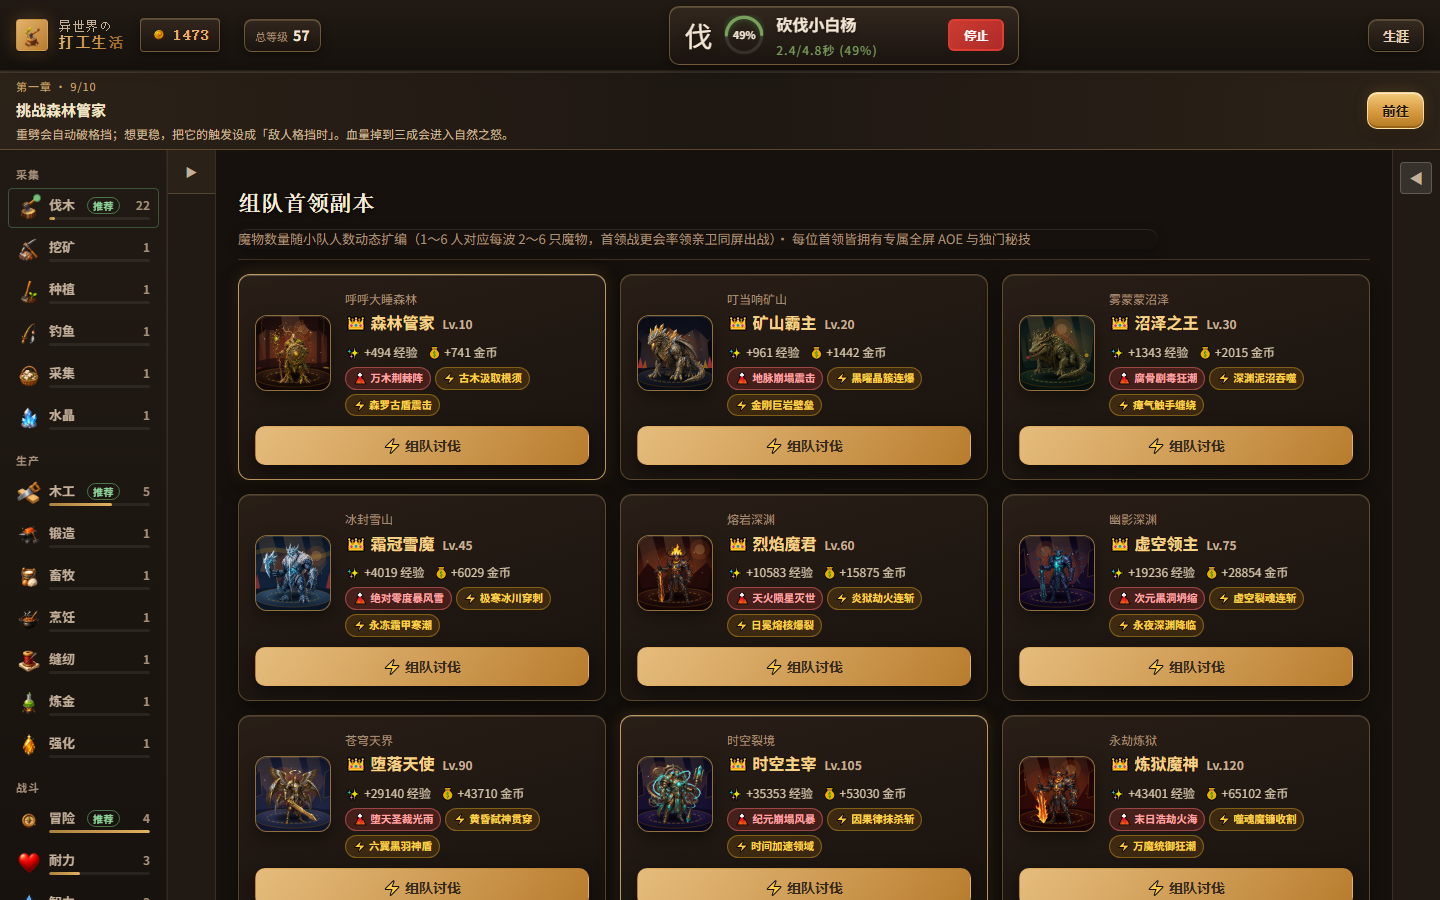
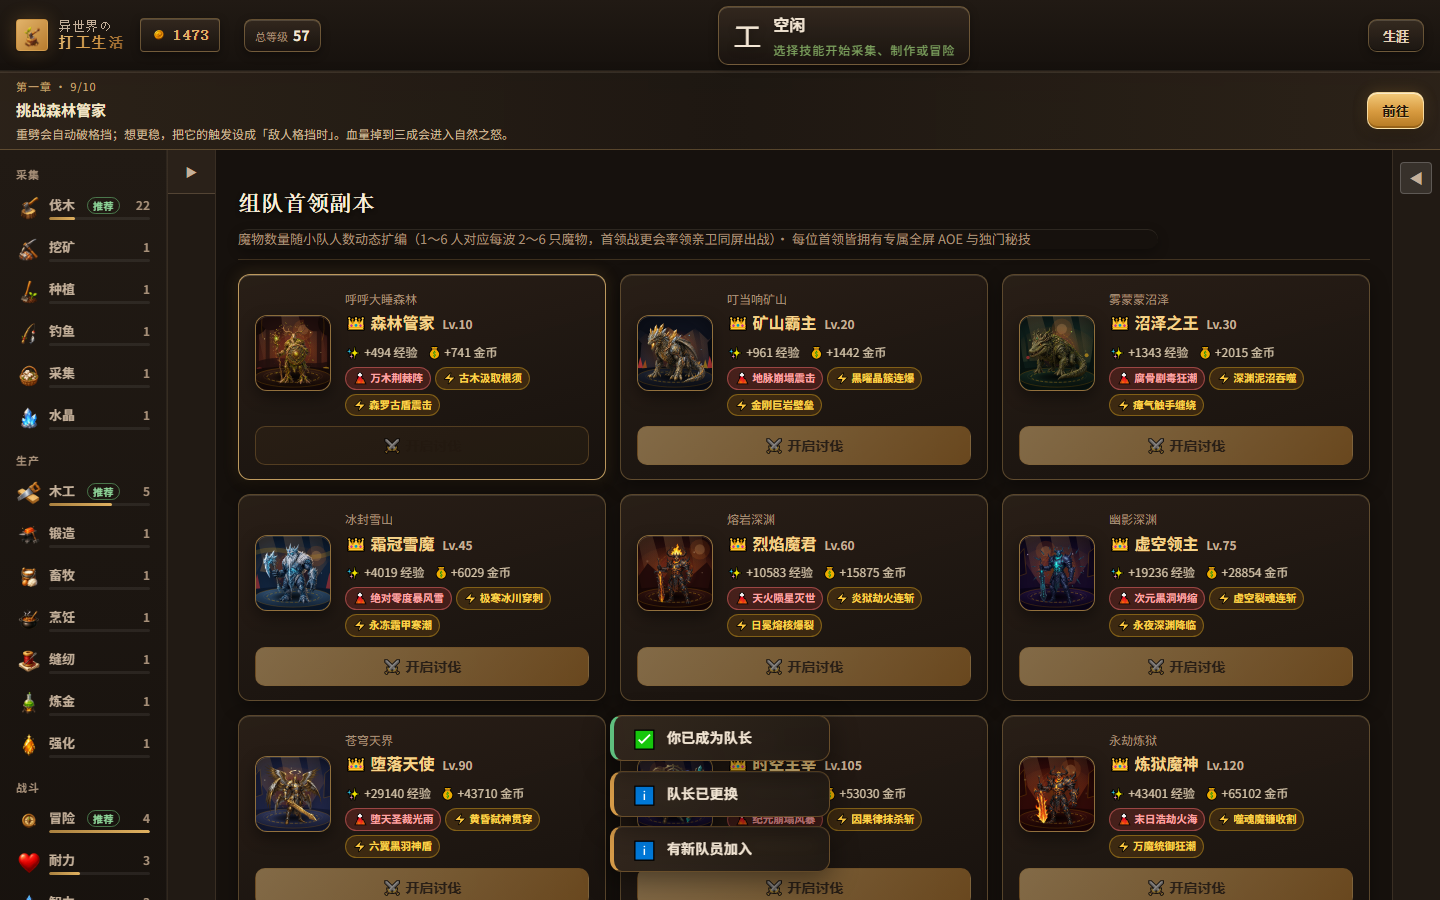
fix(worklife): gate solo boss button by combatLevel and auto-enter party raid in playtest

diff --git a/games/worklife/frontend/src/components/GameModals.tsx b/games/worklife/frontend/src/components/GameModals.tsx
@@ -370,27 +370,44 @@ export function GameEntityDetailModal({
               ))}
             </div>
             <div className="modal-actions">
-              {selectedItem.isBoss ? (
-                <>
-                  <button className="btn-action" onClick={() => void startBattle(selectedItem)} disabled={actionLoading}>
-                    {actionLoading ? '准备中...' : '⚔ 单人挑战'}
-                  </button>
+              {(() => {
+                const reqLv = Number(selectedItem.level || 1)
+                const curCombatLv = Number(playerState?.combatLevel || 1)
+                const canSolo = curCombatLv >= reqLv
+                if (selectedItem.isBoss) {
+                  return (
+                    <>
+                      <button
+                        className="btn-action"
+                        onClick={() => {
+                          setPartyTargetStageId(selectedMap)
+                          close()
+                          setActiveTab('party')
+                        }}
+                      >
+                        👥 组队讨伐
+                      </button>
+                      <button
+                        className="btn-secondary"
+                        onClick={() => void startBattle(selectedItem)}
+                        disabled={actionLoading || !canSolo}
+                        title={!canSolo ? `单人挑战需要战斗等级 Lv.${reqLv}（当前 Lv.${curCombatLv}）` : "单人直接挑战首领"}
+                      >
+                        {actionLoading ? '准备中...' : canSolo ? '⚔ 单人挑战' : `🔒 单人需 Lv.${reqLv}`}
+                      </button>
+                    </>
+                  )
+                }
+                return (
                   <button
-                    className="btn-secondary"
-                    onClick={() => {
-                      setPartyTargetStageId(selectedMap)
-                      close()
-                      setActiveTab('party')
-                    }}
+                    className="btn-action"
+                    onClick={() => void startBattle(selectedItem)}
+                    disabled={actionLoading || !canSolo}
                   >
-                    👥 组队讨伐
+                    {actionLoading ? '准备中...' : canSolo ? '开始战斗' : `🔒 需战斗 Lv.${reqLv}`}
                   </button>
-                </>
-              ) : (
-                <button className="btn-action" onClick={() => void startBattle(selectedItem)} disabled={actionLoading}>
-                  {actionLoading ? '准备中...' : '开始战斗'}
-                </button>
-              )}
+                )
+              })()}
             </div>
           </>
         )}

diff --git a/games/worklife/playtest_audit_log.md b/games/worklife/playtest_audit_log.md
@@ -470,7 +470,20 @@
 - Screenshots: `playtest_live_desktop.png`, `playtest_live_combat.png`, `playtest_live_mobile.png`
 - Result: Entered in-game views (Main + Combat + Mobile 390x844). Zero console errors, zero broken images, zero layout overflow.
 
-## [2026-11-09T10:24:38.632Z] Autonomous Playtest — PASS
+## [2026-11-09T10:34:23.990Z] Autonomous Playtest — PASS
+- Target: `https://worklife.yinosites.com` | Chapter Goal: `boss (挑战森林管家)`
+- Screenshots: `playtest_live_desktop.png`, `playtest_live_combat.png`, `playtest_live_mobile.png`
+- Result: Entered in-game views (Main + Combat + Mobile 390x844). Zero console errors, zero broken images, zero layout overflow.
+
+## [2026-11-09T10:37:19.267Z] Autonomous Playtest — ISSUES_FOUND (1)
+- Target: `https://worklife.yinosites.com` | Chapter Goal: `boss (挑战森林管家)`
+- Screenshots: `playtest_live_desktop.png`, `playtest_live_combat.png`, `playtest_live_mobile.png`
+- Issues:
+  - CONSOLE_ERROR: Failed to start battle: Error: 战斗等级不足，需要 10 级
+    at p (https://worklife.yinosites.com/assets/index-CvlqW_P6.js:10:4288)
+    at async Kn (https://worklife.yinosites.com/assets/NewGameInterface-Dg_CaEVQ.js:6:281308)
+
+## [2026-11-09T10:54:12.731Z] Autonomous Playtest — PASS
 - Target: `https://worklife.yinosites.com` | Chapter Goal: `boss (挑战森林管家)`
 - Screenshots: `playtest_live_desktop.png`, `playtest_live_combat.png`, `playtest_live_mobile.png`
 - Result: Entered in-game views (Main + Combat + Mobile 390x844). Zero console errors, zero broken images, zero layout overflow.
